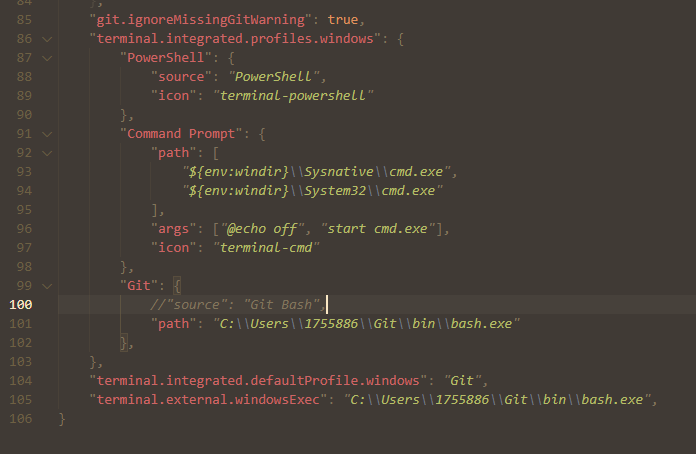
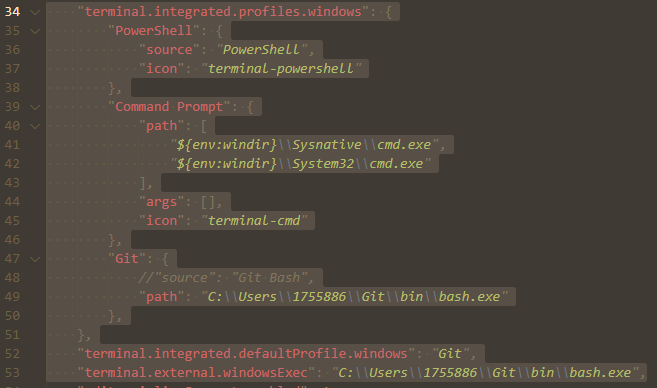
updated with new instructions on terminals

diff --git a/DOWNLOAD-GUIDE.md b/DOWNLOAD-GUIDE.md
@@ -111,22 +111,33 @@ Type the following commands:
                     "${env:windir}\\Sysnative\\cmd.exe",
                     "${env:windir}\\System32\\cmd.exe"
                 ],
-                "args": ["@echo off", "start cmd.exe"],
+                "args": [],
                 "icon": "terminal-cmd"
             },
             "Git": {
                 //"source": "Git Bash",
                 "path": "[insert path to Git\\bin\\bash]"
-                //On personal computers, it's usually in the ProgramFiles directory. School computers, it's wherever you installed it to.
+
+                //On personal computers, it's usually in the ProgramFiles directory. 
+                //School computers, it's wherever you installed it to.
             },
         },
-        "terminal.integrated.defaultProfile.windows": "[choose a profile here]"
-        //add comma here if there's some more stuff on the bottom
+        "terminal.integrated.defaultProfile.windows": "[choose a profile here]" //add comma here if there's some more stuff on the bottom
         ```
 
         For example:
 
         ![Editing terminal settings](static/downloadGuide/git10_settings.json.png)
 
-        If you are on a personal computer, you can simply write ```"args": []``` instead of ```"args": ["@echo off", "start cmd.exe"]```.
-        You can choose a default terminal. PowerShell and Command Prompt are Windows defaults, but git bash may be easier as it states which branch you are on.
+        You can choose a default terminal. PowerShell and Command Prompt (CMD) are Windows defaults, but Git Bash may be easier as it states which branch you are on.
+
+        #### Visual Differences between PowerShell, Command Prompt, and Git Bash:
+
+        Git Bash:
+        ![Git Bash shows the branch name whenever you're on a git repository](static/downloadGuide/git11_gitBash.png)
+
+        PowerShell:
+        ![Powershell has highlighting, but it doesn't show the branch name](static/downloadGuide/git12_PS.png)
+
+        CMD
+        ![CMD doesn't show the branch name or has highlighting](static/downloadGuide/git13_CMD.png)
